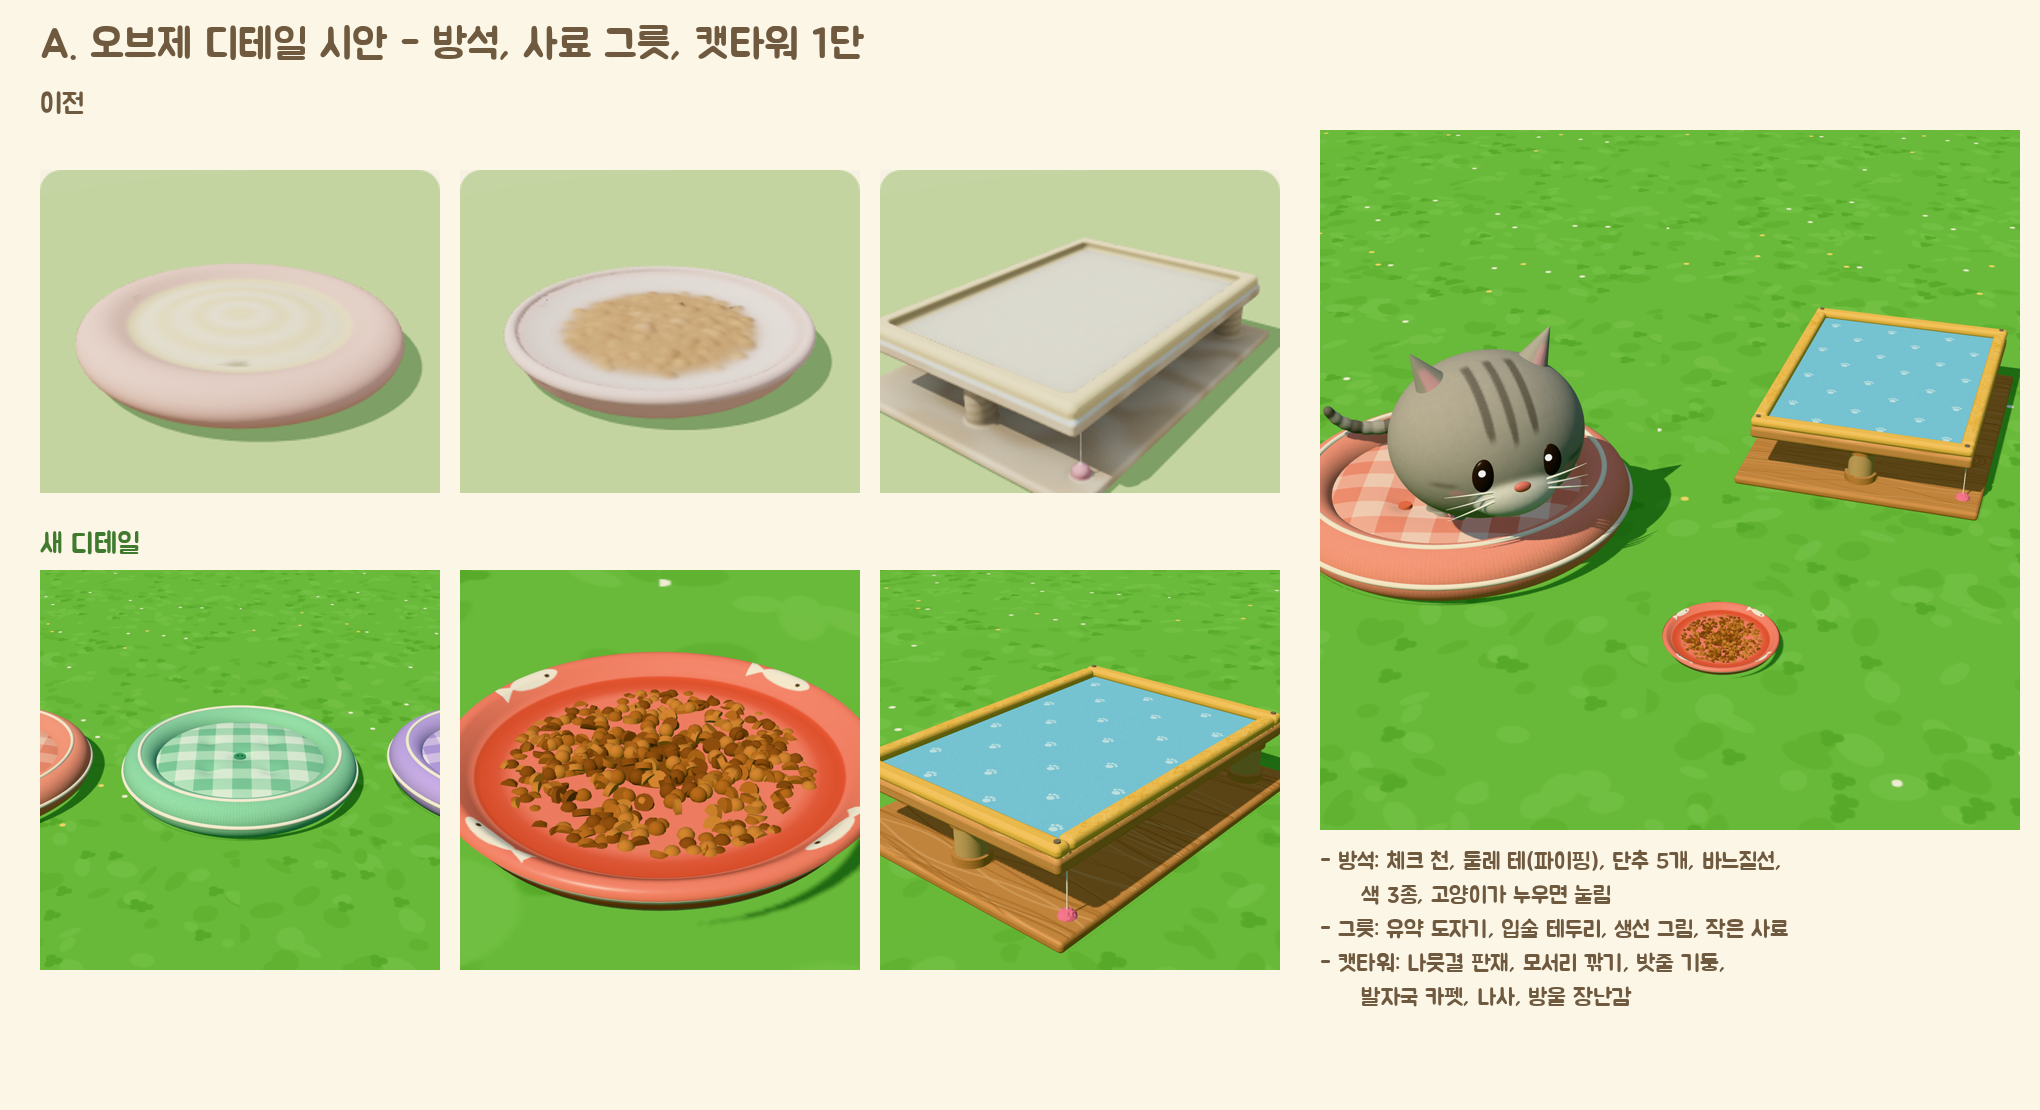
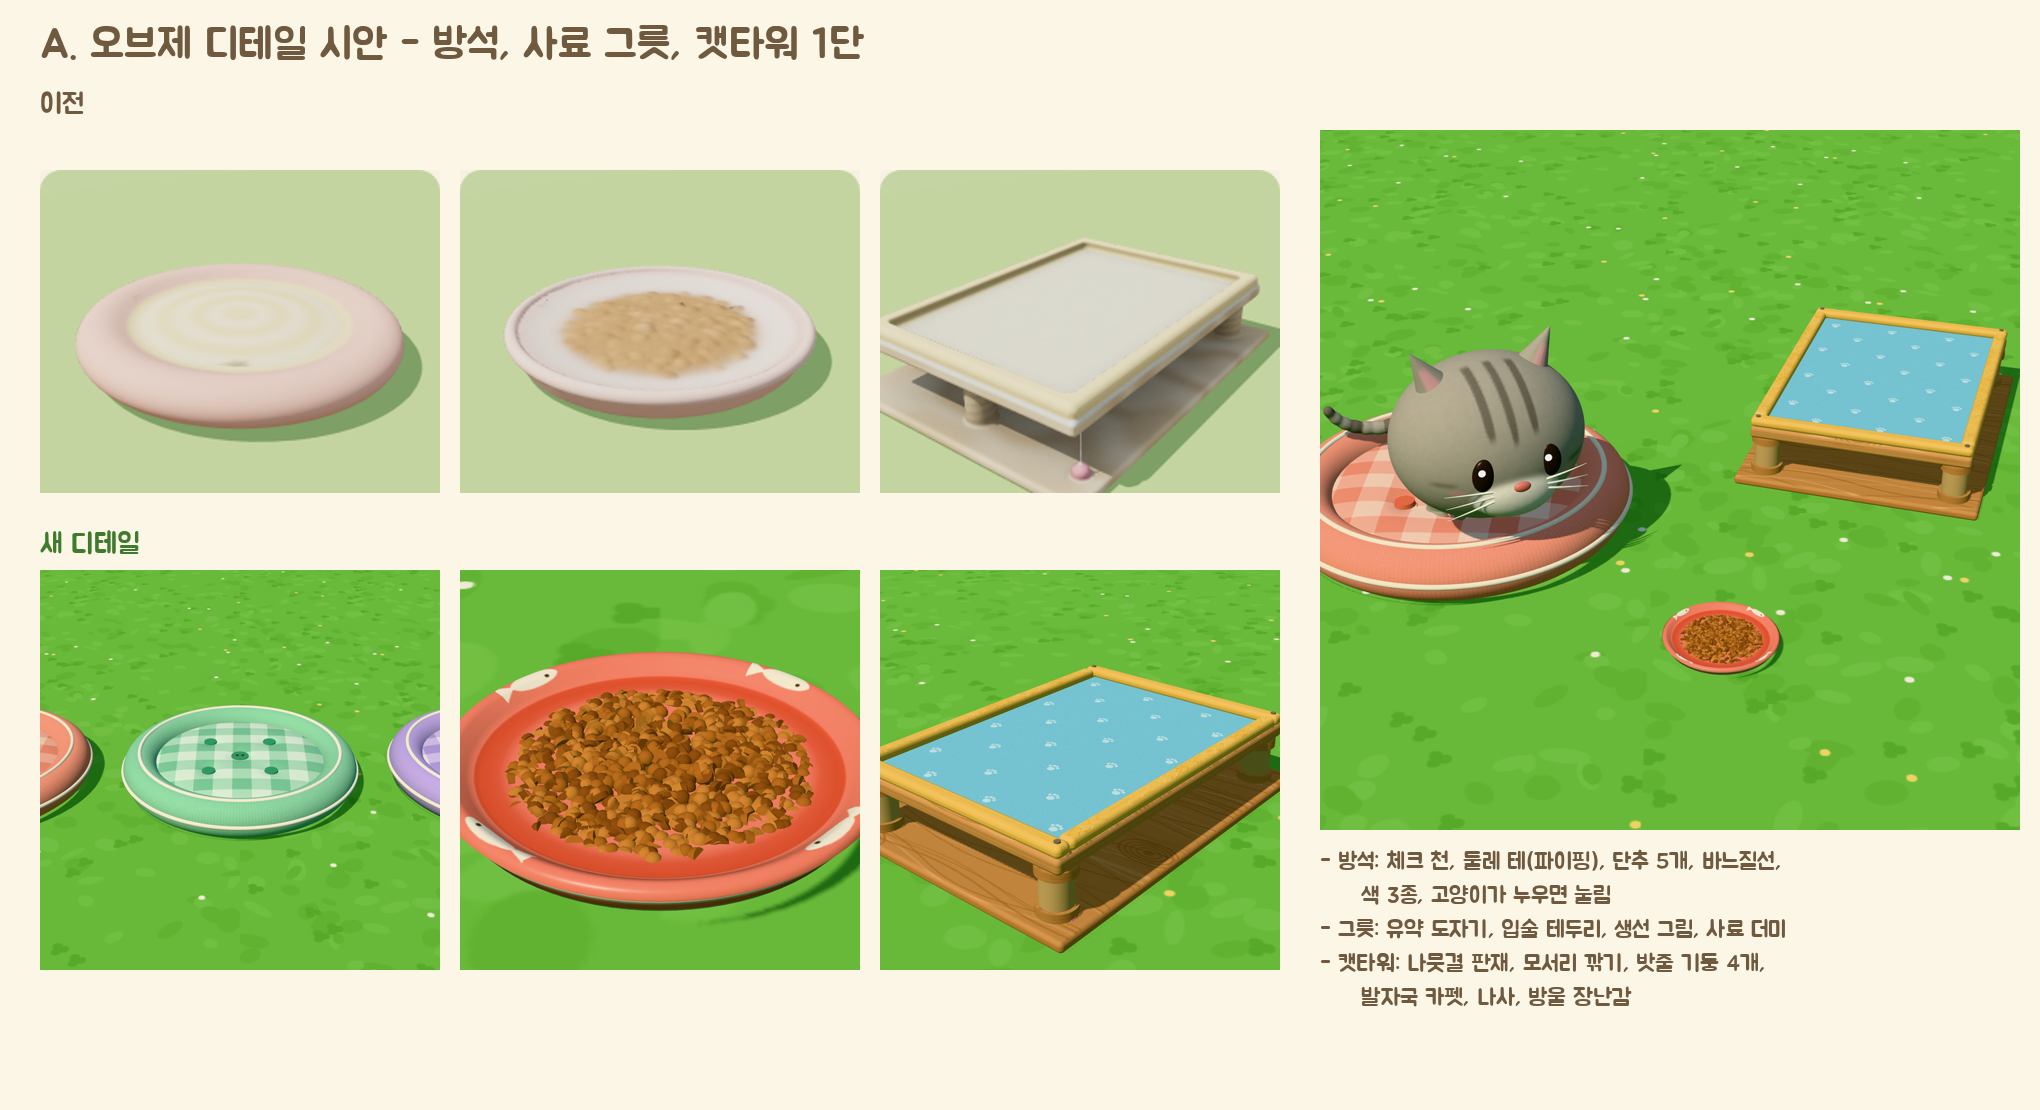
Item detail test: bigger buttons, fuller kibble, visible rope posts; five cat tower designs
Cat towers built from a kit of parts (sisal posts with wooden collars, carpeted decks,
beds, a cube house with a round door, a hammock, leaf pads on a bark trunk, a tunnel,
pompoms): 1-level stool, 2-level stairs, 3-level house, 3-level tree, 5-level tall.
Deck tops on a 0.4 m grid: the taller towers need a higher jump and a jump down (step B).

Claude-Session: https://claude.ai/code/session_015vjHDFNeuhZBMk9pB9WgeS

diff --git a/cat-island/prototype/3d/items_detail.html b/cat-island/prototype/3d/items_detail.html
@@ -90,10 +90,10 @@ function cushion(v, press = null) {
     s.position.set(Math.cos(a) * (Rs - .03), top - .028, Math.sin(a) * (Rs - .03)); s.rotation.set(Math.PI / 2, 0, -a); g.add(s); }
   // tufting: four more buttons in a ring, each in a soft dimple
   for (let k = 0; k < 4; k++) { const a = k * Math.PI / 2 + Math.PI / 4, bx = Math.cos(a) * .2, bz = Math.sin(a) * .2;
-    const b2 = new THREE.Mesh(new THREE.CylinderGeometry(.02, .022, .01, 24), std({ color: v.button, roughness: .45 })); b2.position.set(bx, top - .012 - .01, bz); g.add(b2); }
+    const b2 = new THREE.Mesh(new THREE.CylinderGeometry(.03, .033, .014, 24), std({ color: v.button, roughness: .45 })); b2.position.set(bx, top - .011, bz); g.add(b2); }
   // centre button with two holes and a thread cross
-  const btn = new THREE.Mesh(new THREE.CylinderGeometry(.028, .03, .012, 32), std({ color: v.button, roughness: .45 })); btn.position.y = top - .014; g.add(btn);
-  for (const s of [-1, 1]) { const h = new THREE.Mesh(new THREE.CylinderGeometry(.005, .005, .013, 12), std({ color: '#5a4632' })); h.position.set(s * .009, top - .013, 0); g.add(h); }
+  const btn = new THREE.Mesh(new THREE.CylinderGeometry(.04, .043, .016, 32), std({ color: v.button, roughness: .45 })); btn.position.y = top - .014; g.add(btn);
+  for (const s of [-1, 1]) { const h = new THREE.Mesh(new THREE.CylinderGeometry(.007, .007, .017, 12), std({ color: '#5a4632' })); h.position.set(s * .013, top - .012, 0); g.add(h); }
   g.traverse(o => { if (o.isMesh) { o.castShadow = o.receiveShadow = true; } });
   return g;
 }
@@ -124,7 +124,7 @@ function foodBowl() {
   const kc = ['#b06b35', '#8a4f26', '#c98447'];
   const bed = new THREE.Mesh(new THREE.SphereGeometry(1, 48, 16), std({ color: '#8a4f26', roughness: 1 })); bed.scale.set(.116, .01, .116); bed.position.y = .012; g.add(bed);
   const kG = [new THREE.CylinderGeometry(.0068, .0068, .0045, 12), new THREE.SphereGeometry(.0062, 10, 8)];
-  for (let i = 0; i < 420; i++) {
+  for (let i = 0; i < 900; i++) {
     const a = rnd() * Math.PI * 2, r = Math.sqrt(rnd()) * .112, crown = .03 - .004 - (r / .112) ** 2 * .006;
     const m = new THREE.Mesh(kG[i % 2], std({ color: kc[i % 3], roughness: .9 })); m.position.set(Math.cos(a) * r, crown - rnd() * .003, Math.sin(a) * r); m.rotation.set(rnd() * 3, rnd() * 3, rnd() * 3); g.add(m);
   }
@@ -149,7 +149,7 @@ function tower() {
     const r = new THREE.Mesh(new RoundedBoxGeometry(w, .032, l, 4, .014), rimM); r.position.set(x, Y + .016, z); g.add(r);
   }
   // posts: sisal rope between wooden collars
-  for (const [px, pz] of [[-DW / 2 + .07, -DL / 2 + .07], [DW / 2 - .07, -DL / 2 + .07], [0, DL / 2 - .08]]) {
+  for (const [px, pz] of [[-DW / 2 + .05, -DL / 2 + .05], [DW / 2 - .05, -DL / 2 + .05], [-DW / 2 + .05, DL / 2 - .05], [DW / 2 - .05, DL / 2 - .05]]) {
     const h = Y - DT - .03;
     const post = new THREE.Mesh(new THREE.CylinderGeometry(.042, .042, h - .03, 32), std({ map: sisalTex, roughness: 1 })); post.position.set(px, .03 + h / 2, pz); g.add(post);
     for (const yy of [.03 + .012, Y - DT - .012]) { const c = new THREE.Mesh(new THREE.CylinderGeometry(.052, .052, .024, 32), std({ map: woodA, roughness: .7 })); c.position.set(px, yy, pz); g.add(c); }
@@ -166,6 +166,93 @@ function tower() {
   g.traverse(o => { if (o.isMesh) { o.castShadow = o.receiveShadow = true; } });
   return g;
 }
+
+
+// ---------------------------------------------------------------- cat towers: a kit of parts, five designs
+// Deck tops sit on a 0.4 m grid (STEP): one jump per level. The game's JumpUp clip climbs 0.2 m today, so the
+// taller towers need the new higher jump and a jump down (step B, docs/ART_DIRECTION.md). Every deck a cat
+// lands on is at least 0.6 x 0.7 m (a Maine Coon's four paws after the landing).
+const STEP = .4;
+const KIT = (() => {
+  const woodA = woodTex('#c98f58', '#a06a3a', '#e0b07a'), woodB = woodTex('#d29a62', '#a8703f', '#e8bd87'), woodW = woodTex('#f3e6cf', '#d9c3a0', '#fffaf0');
+  const bark = tex(256, 512, (g, w, h) => { g.fillStyle = '#9a6a40'; g.fillRect(0, 0, w, h); for (let i = 0; i < 40; i++) { const x = rnd() * w; g.strokeStyle = rnd() < .5 ? '#7d5330' : '#b5824f'; g.lineWidth = 3 + rnd() * 6; g.beginPath(); g.moveTo(x, 0); for (let y = 0; y <= h; y += 32) g.lineTo(x + Math.sin(y / 60 + i) * 6, y); g.stroke(); } }, 2, 1);
+  const carpet = (c, c2) => tex(256, 256, (gg, w, h) => { gg.fillStyle = c; gg.fillRect(0, 0, w, h); for (let i = 0; i < 1800; i++) { gg.fillStyle = rnd() < .5 ? c2 : 'rgba(255,255,255,.16)'; gg.fillRect(rnd() * w, rnd() * h, 2, 1); }
+    const paw = (x, y) => { gg.fillStyle = 'rgba(255,255,255,.5)'; gg.beginPath(); gg.ellipse(x, y, 13, 11, 0, 0, 7); gg.fill(); for (const [dx, dy] of [[-15, -14], [-5, -21], [6, -21], [16, -14]]) { gg.beginPath(); gg.ellipse(x + dx, y + dy, 5, 6, 0, 0, 7); gg.fill(); } };
+    paw(64, 80); paw(190, 200); }, 2, 2);
+  const M = { woodA: std({ map: woodA, roughness: .7 }), woodB: std({ map: woodB, roughness: .7 }), woodW: std({ map: woodW, roughness: .7 }), sisal: std({ map: sisalTex, roughness: 1 }), bark: std({ map: bark, roughness: .95 }),
+    blue: std({ map: carpet('#7fcbe8', 'rgba(40,90,120,.16)'), roughness: 1 }), pink: std({ map: carpet('#ffb3c4', 'rgba(150,60,80,.14)'), roughness: 1 }), cream: std({ map: carpet('#fff1d6', 'rgba(120,90,50,.12)'), roughness: 1 }),
+    mint: std({ map: carpet('#a6e3c4', 'rgba(40,110,80,.14)'), roughness: 1 }), leaf: std({ map: felt('#66b84a', 'rgba(30,80,20,.16)'), roughness: .95 }), leaf2: std({ map: felt('#4fa53b', 'rgba(20,60,15,.16)'), roughness: .95 }),
+    butter: std({ map: woodTex('#f6c768', '#e0a83f', '#ffe09a'), roughness: .6 }), dark: std({ color: '#3b2a22', roughness: 1 }) };
+  const add = (g, m) => { m.castShadow = m.receiveShadow = true; g.add(m); return m; };
+  const box = (g, mat, w, h, l, x, y, z, r = .012) => { const m = add(g, new THREE.Mesh(new RoundedBoxGeometry(w, h, l, 4, Math.min(r, h / 2 - .001, w / 2 - .001, l / 2 - .001)), mat)); m.position.set(x, y, z); return m; };
+  const cyl = (g, mat, r0, r1, h, x, y, z, seg = 32) => { const m = add(g, new THREE.Mesh(new THREE.CylinderGeometry(r0, r1, h, seg), mat)); m.position.set(x, y, z); return m; };
+  // a sisal post between wooden collars, from y0 to y1
+  const post = (g, x, z, y0, y1, r = .05, mat = M.sisal) => { cyl(g, mat, r, r, y1 - y0 - .04, x, (y0 + y1) / 2, z); cyl(g, M.woodA, r + .012, r + .012, .025, x, y0 + .0125, z); cyl(g, M.woodA, r + .012, r + .012, .025, x, y1 - .0125, z); };
+  // a deck: wooden board, carpet top; bed = a padded rim round it
+  const deck = (g, x, y, z, w, l, carpetM = M.blue, bed = false, round = false) => {
+    if (round) { cyl(g, M.woodB, w / 2, w / 2, .04, x, y - .02, z, 48); const c = cyl(g, carpetM, w / 2 - .03, w / 2 - .03, .008, x, y + .002, z, 48);
+      if (bed) { const t = add(g, new THREE.Mesh(new THREE.TorusGeometry(w / 2 - .035, .035, 16, 64), carpetM)); t.rotation.x = Math.PI / 2; t.position.set(x, y + .03, z); } return; }
+    box(g, M.woodB, w, .04, l, x, y - .02, z); box(g, carpetM, w - .06, .008, l - .06, x, y + .002, z, .004);
+    if (bed) for (const [ww, ll, dx, dz] of [[w, .06, 0, -l / 2 + .03], [w, .06, 0, l / 2 - .03], [.06, l - .12, -w / 2 + .03, 0], [.06, l - .12, w / 2 - .03, 0]]) box(g, carpetM, ww, .06, ll, x + dx, y + .03, z + dz, .028);
+  };
+  const base = (g, w, l, x = 0, z = 0) => box(g, M.woodA, w, .03, l, x, .015, z);
+  const screws = (g, x, y, z, w, l) => { for (const sx of [-1, 1]) for (const sz of [-1, 1]) cyl(g, std({ color: '#8a7a68', roughness: .5 }), .008, .008, .004, x + sx * (w / 2 - .022), y + .006, z + sz * (l / 2 - .022), 16); };
+  // a cube house with a round door (dark disc + padded ring), its roof a deck
+  const house = (g, x, z, w, h, l, wallM, roofM) => {
+    box(g, wallM, w, h, l, x, h / 2, z, .05);
+    const door = add(g, new THREE.Mesh(new THREE.CircleGeometry(.16, 40), M.dark)); door.position.set(x, .2, z + l / 2 + .002);
+    const ring = add(g, new THREE.Mesh(new THREE.TorusGeometry(.165, .022, 12, 48), roofM)); ring.position.set(x, .2, z + l / 2 + .004);
+    deck(g, x, h + .02, z, w, l, roofM);
+  };
+  // a hammock slung under a deck: a sagging cloth on four strings
+  const hammock = (g, x, y, z, w, l, mat) => {
+    const geo = new THREE.PlaneGeometry(w, l, 16, 16); geo.rotateX(-Math.PI / 2); const pp = geo.attributes.position;
+    for (let i = 0; i < pp.count; i++) { const u = pp.getX(i) / (w / 2), v = pp.getZ(i) / (l / 2); pp.setY(i, -.09 * (1 - u * u) * (1 - v * v)); }
+    geo.computeVertexNormals(); const m = add(g, new THREE.Mesh(geo, mat)); m.material = mat.clone(); m.material.side = THREE.DoubleSide; m.position.set(x, y, z);
+    for (const sx of [-1, 1]) for (const sz of [-1, 1]) cyl(g, std({ color: '#fffaf0' }), .004, .004, .16, x + sx * w / 2, y + .08, z + sz * l / 2, 6);
+  };
+  // a leaf-shaped pad (island theme): a few overlapping round felt lobes and a vein
+  const leafPad = (g, x, y, z, r, rot, mat) => {
+    const lg = new THREE.Group(); lg.position.set(x, y, z); lg.rotation.y = rot; g.add(lg);
+    for (const [dx, dz, rr] of [[0, 0, r], [r * .55, -r * .2, r * .62], [-r * .55, -r * .2, r * .62], [0, r * .6, r * .55]]) { const c = cyl(lg, mat, rr, rr, .05, dx, -.025, dz, 40); }
+    const vein = box(lg, M.leaf2, .02, .006, r * 1.6, 0, .002, r * .1, .003);
+  };
+  const pompom = (g, x, y, z, len = .14, col = '#ff7f9f') => {
+    cyl(g, std({ color: '#fffaf0' }), .002, .002, len, x, y - len / 2, z, 6);
+    const pg = new THREE.IcosahedronGeometry(.028, 4), pp = pg.attributes.position;
+    for (let i = 0; i < pp.count; i++) { const v = V(pp.getX(i), pp.getY(i), pp.getZ(i)); v.multiplyScalar(1 + .12 * Math.sin(v.x * 400) * Math.sin(v.y * 380) * Math.sin(v.z * 420)); pp.setXYZ(i, v.x, v.y, v.z); }
+    pg.computeVertexNormals(); const m = add(g, new THREE.Mesh(pg, std({ color: col, roughness: 1 }))); m.position.set(x, y - len - .02, z);
+  };
+  return { M, box, cyl, post, deck, base, screws, house, hammock, leafPad, pompom, add };
+})();
+const TOWERS = {
+  // 1. stool: one round bed on a fat sisal column
+  stool: { ko: '1단 스툴형', top: [0, STEP + .01, 0], build: g => { const K = KIT; K.cyl(g, K.M.woodA, .4, .42, .03, 0, .015, 0, 48); K.post(g, 0, 0, .03, STEP - .04, .1); K.deck(g, 0, STEP, 0, 1.0, 1.0, K.M.pink, true, true); K.pompom(g, .42, STEP - .04, .2); } },
+  // 2. stairs: two decks one step apart, offset like stairs
+  stairs: { ko: '2단 계단형', top: [.32, 2 * STEP, 0], build: g => { const K = KIT; K.base(g, 1.5, .95);
+    K.post(g, -.6, -.3, .03, STEP - .04); K.post(g, -.6, .3, .03, STEP - .04); K.post(g, -.05, -.3, .03, 2 * STEP - .04); K.post(g, -.05, .3, .03, 2 * STEP - .04); K.post(g, .6, 0, .03, 2 * STEP - .04);
+    K.deck(g, -.4, STEP, 0, .7, .85, K.M.blue); K.screws(g, -.4, STEP, 0, .7, .85); K.deck(g, .32, 2 * STEP, 0, .75, .85, K.M.cream, true); K.pompom(g, .66, 2 * STEP - .04, .38, .2); } },
+  // 3. house: a cube house below, a hammock, a deck, a bed on top
+  house: { ko: '3단 하우스형', top: [.02, 3 * STEP, 0], build: g => { const K = KIT; K.base(g, 1.35, 1.0);
+    K.house(g, -.32, 0, .66, STEP - .02, .8, K.M.woodW, K.M.mint);
+    K.post(g, .16, -.36, .03, 2 * STEP - .04); K.post(g, .16, .36, .03, 2 * STEP - .04); K.post(g, .6, -.36, .03, 3 * STEP - .04); K.post(g, .6, .36, .03, 3 * STEP - .04);
+    K.post(g, -.55, -.3, STEP + .02, 3 * STEP - .04); K.post(g, -.55, .3, STEP + .02, 3 * STEP - .04);
+    K.deck(g, .38, 2 * STEP, 0, .64, .9, K.M.mint); K.hammock(g, .38, STEP + .05, 0, .36, .6, K.M.cream);
+    K.deck(g, .02, 3 * STEP, 0, 1.3, .95, K.M.pink, true); K.pompom(g, .68, 2 * STEP - .04, .3); } },
+  // 4. tree: a bark trunk with leaf pads spiralling round it (the island theme)
+  tree: { ko: '3단 나무형', top: [.02, 3 * STEP + .02, -.05], build: g => { const K = KIT; K.cyl(g, K.M.woodA, .5, .52, .03, 0, .015, 0, 48);
+    K.cyl(g, K.M.bark, .12, .15, 3 * STEP - .08, 0, (3 * STEP - .08) / 2 + .03, 0, 32);   // (ends under the top pad, so a cat can lie on it)
+    K.leafPad(g, .38, STEP, .1, .38, .4, K.M.leaf); K.leafPad(g, -.36, 2 * STEP, -.05, .38, -2.6, K.M.leaf); K.leafPad(g, .02, 3 * STEP + .02, -.05, .44, 1.3, K.M.leaf);
+    for (const [x, y, z] of [[.38, STEP, .1], [-.36, 2 * STEP, -.05], [.05, 3 * STEP + .02, -.2]]) K.post(g, x * .55, z * .55, y - .14, y - .04, .035, K.M.bark);
+    K.pompom(g, .6, STEP - .04, .2, .16, '#ffd23f'); } },
+  // 5. tall: five levels, a tunnel on level two, toys
+  tall: { ko: '5단 높은 타워', top: [-.05, 5 * STEP, 0], build: g => { const K = KIT; K.base(g, 1.2, 1.1);
+    const L = [[-.25, .1, K.M.blue], [.3, -.05, K.M.cream], [-.25, -.1, K.M.pink], [.3, .05, K.M.blue], [-.05, 0, K.M.mint]];
+    K.post(g, -.5, -.42, .03, 4 * STEP - .04, .055); K.post(g, .5, .42, .03, 5 * STEP - .04, .055); K.post(g, .5, -.42, .03, 4 * STEP - .04, .055); K.post(g, -.5, .42, .03, 5 * STEP - .04, .055);
+    L.forEach(([x, z, m], i) => { const y = (i + 1) * STEP; K.deck(g, x, y, z, i === 4 ? .8 : .66, .8, m, i === 4); K.screws(g, x, y, z, .66, .8); });
+    const tun = K.add(g, new THREE.Mesh(new THREE.CylinderGeometry(.17, .17, .55, 32, 1, true), K.M.cream)); tun.material = K.M.cream.clone(); tun.material.side = THREE.DoubleSide; tun.rotation.z = Math.PI / 2; tun.position.set(.3, 2 * STEP + .17, -.05);
+    K.pompom(g, .62, 3 * STEP - .04, .35, .2); K.pompom(g, -.6, 2 * STEP - .04, -.3, .14, '#ffd23f'); } },
+};
 
 // ---------------------------------------------------------------- scene: the AC-direction island patch
 const r = new THREE.WebGLRenderer({ antialias: true, preserveDrawingBuffer: true });
@@ -202,6 +289,21 @@ if (shot === 'hero') {
   cam.position.set(0, 1.9, 3.3); cam.lookAt(0, .05, 0);
 } else if (shot === 'bowl') {
   const bw = foodBowl(); sc.add(bw); cam.position.set(0, .34, .5); cam.lookAt(0, .015, 0);
+} else if (shot === 'towers') {   // the five tower designs in a row, a cat for scale
+  const ids = Object.keys(TOWERS);
+  ids.forEach((id, i) => { const g = new THREE.Group(); TOWERS[id].build(g); g.position.set((i - 2) * 1.75, 0, 0); g.rotation.y = -.25; sc.add(g); });
+  const b = BREEDS.find(x => x.id === 'korean_shorthair'); const cat = buildCatModel(b.shape, b.coat, { res: .02, style: 'ac' });
+  const rig = makeRig(cat); applyPose(rig, loafPose(rig)); cat.traverse(o => { if (o.isMesh) { o.castShadow = o.receiveShadow = true; o.frustumCulled = false; } });
+  cat.position.set(-2 * 1.75, STEP + .03, 0); cat.rotation.y = .3; sc.add(cat);
+  cam.position.set(0, 3.0, 8.6); cam.lookAt(0, .75, 0);
+} else if (TOWERS[shot]) {
+  const g = new THREE.Group(); TOWERS[shot].build(g); g.rotation.y = -.45; sc.add(g);
+  const h = { stool: .5, stairs: .9, house: 1.3, tree: 1.3, tall: 2.1 }[shot]; const hc = h + (q.get('cat') ? .75 : 0); cam.position.set(1.3, hc * .75 + 1.0, 3.0 + hc * 1.15); cam.lookAt(0, hc * .47, 0);
+  if (q.get('cat')) {   // a cat loafing on the top deck, for scale
+    const b = BREEDS.find(x => x.id === q.get('cat')); const cat = buildCatModel(b.shape, b.coat, { res: .02, style: 'ac' });
+    const rig = makeRig(cat); applyPose(rig, loafPose(rig)); cat.traverse(o => { if (o.isMesh) { o.castShadow = o.receiveShadow = true; o.frustumCulled = false; } });
+    const t = new THREE.Vector3(...TOWERS[shot].top).applyAxisAngle(new THREE.Vector3(0, 1, 0), g.rotation.y); cat.position.set(t.x, t.y + .01, t.z); cat.rotation.y = .4; sc.add(cat);
+  }
 } else if (shot === 'tower') {
   const tw = tower(); tw.rotation.y = -.5; sc.add(tw); cam.position.set(.4, 1.1, 2.0); cam.lookAt(0, .12, 0);
 }
